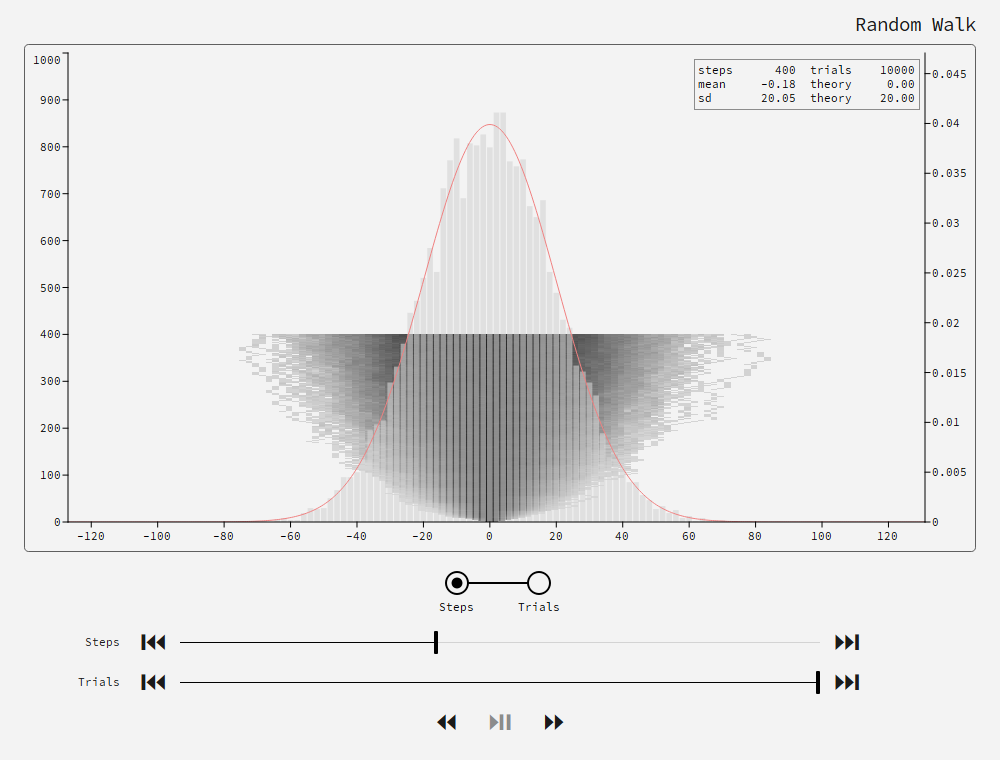
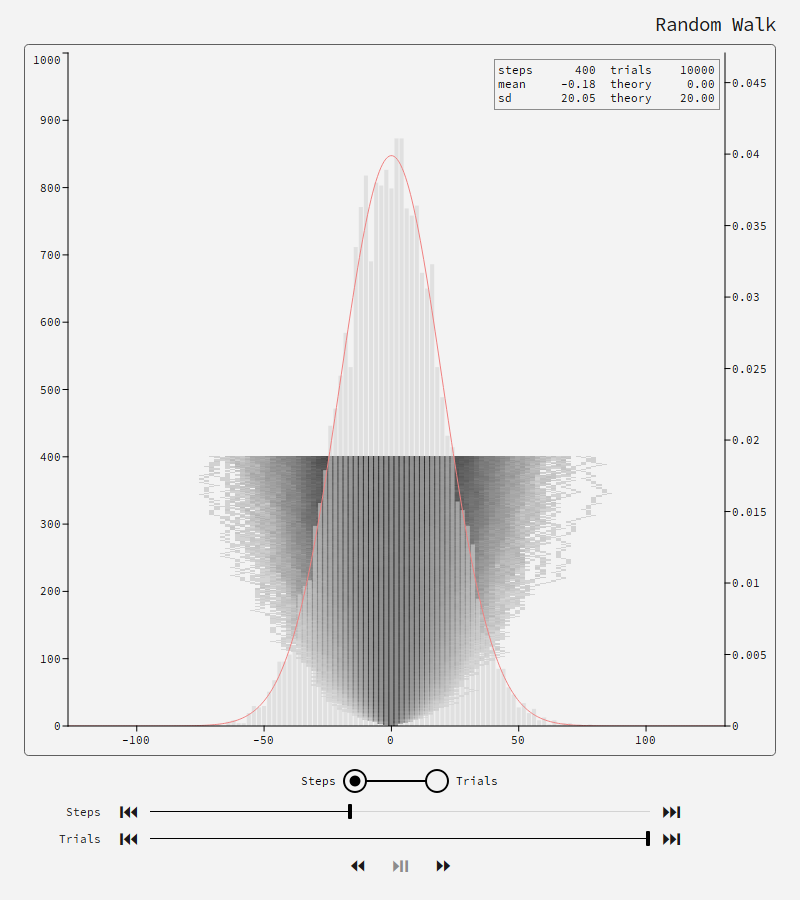
v0.3.8: Adjusted layout, new label option on custom control

diff --git a/src/random_walk/gui/position_selector.py b/src/random_walk/gui/position_selector.py
@@ -4,14 +4,20 @@
     Position 1   Position 2   Position 3
        Text         Text         Text
 
+With exactly two positions, `labels_beside` puts the labels either side instead, centred on
+the circles, so the control is only as tall as a circle (or a label):
+
+    Steps ( * )--------(   ) Trials
+
 Click a circle or its label to select that position; the dot slides there and
 `currentIndexChanged` is emitted. Exactly one position is selected at a time.
 
 Geometry, all in px:
   diameter    circle diameter (the control's "height"); the dot is half of it
-  spacing     edge-to-edge gap between neighbouring circles - a minimum: it grows so the widest
-              label fits, keeping every gap equal
-  label_gap   from the bottom of the circles to the top of the labels
+  spacing     edge-to-edge gap between neighbouring circles - with labels below, a minimum:
+              it grows so the widest label fits, keeping every gap equal
+  label_gap   from the circles to their labels: below them, or beside them with
+              `labels_beside`
 """
 
 from __future__ import annotations
@@ -57,15 +63,19 @@ class PositionSelector(QWidget):
         diameter: int = DEFAULT_DIAMETER,
         spacing: int = DEFAULT_SPACING,
         label_gap: int = DEFAULT_LABEL_GAP,
+        labels_beside: bool = False,
         parent: QWidget | None = None,
     ) -> None:
         super().__init__(parent)
         if not labels:
             raise ValueError("PositionSelector needs at least one position")
+        if labels_beside and len(labels) != 2:
+            raise ValueError("labels_beside needs exactly two positions")
         self._labels = list(labels)
         self._diameter = diameter
         self._spacing = spacing
         self._label_gap = label_gap
+        self._beside = labels_beside
         self._index = 0
         self._dot = 0.0  # dot position in index units; fractional while sliding
 
@@ -111,18 +121,31 @@ class PositionSelector(QWidget):
         return QSize(int(rect.width() + 1), int(rect.height() + 1))
 
     def _pitch(self) -> float:
+        if self._beside:  # no labels between the circles to make room for
+            return self._diameter + self._spacing
         widest = max(self._label_size(t).width() for t in self._labels)
         return circle_pitch(self._diameter, self._spacing, widest)
 
     def _side_margin(self, label: str) -> float:
         """Room from the widget edge to an end circle's centre: half the circle (plus the
-        outline) or half that circle's label, whichever is wider."""
-        return max(self._diameter / 2 + LINE_WIDTH, self._label_size(label).width() / 2)
+        outline) and, with labels beside, the label and its gap; with labels below, half the
+        circle or half its label, whichever is wider."""
+        circle = self._diameter / 2 + LINE_WIDTH
+        if self._beside:
+            return circle + self._label_gap + self._label_size(label).width()
+        return max(circle, self._label_size(label).width() / 2)
+
+    def _labels_height(self) -> float:
+        return max(self._label_size(t).height() for t in self._labels)
 
     def _centre(self, position: float) -> QPointF:
         """Centre of the circle at `position` (fractional while the dot slides)."""
         x = self._side_margin(self._labels[0]) + position * self._pitch()
-        return QPointF(x, LINE_WIDTH + self._diameter / 2)
+        if self._beside:  # circles and labels share one centre line
+            y = max(self._diameter + 2 * LINE_WIDTH, self._labels_height()) / 2
+        else:
+            y = LINE_WIDTH + self._diameter / 2
+        return QPointF(x, y)
 
     def _circle_rect(self, index: int) -> QRectF:
         c, r = self._centre(index), self._diameter / 2
@@ -130,9 +153,19 @@ class PositionSelector(QWidget):
 
     def _label_rect(self, index: int) -> QRectF:
         size = self._label_size(self._labels[index])
+        centre = self._centre(index)
+        if self._beside:  # left of the first circle, right of the second
+            reach = self._diameter / 2 + LINE_WIDTH + self._label_gap
+            x = centre.x() - reach - size.width() if index == 0 else centre.x() + reach
+            return QRectF(x, centre.y() - size.height() / 2, size.width(), size.height())
         top = LINE_WIDTH + self._diameter + self._label_gap
-        x = self._centre(index).x() - size.width() / 2
-        return QRectF(x, top, size.width(), size.height())
+        return QRectF(centre.x() - size.width() / 2, top, size.width(), size.height())
+
+    def _label_alignment(self, index: int) -> Qt.AlignmentFlag:
+        """How a label's lines line up: towards its circle when beside it, else centred."""
+        if not self._beside:
+            return Qt.AlignmentFlag.AlignHCenter
+        return Qt.AlignmentFlag.AlignRight if index == 0 else Qt.AlignmentFlag.AlignLeft
 
     def sizeHint(self) -> QSize:
         width = (
@@ -140,8 +173,10 @@ class PositionSelector(QWidget):
             + (self.count() - 1) * self._pitch()
             + self._side_margin(self._labels[-1])
         )
-        labels_height = max(self._label_size(t).height() for t in self._labels)
-        height = LINE_WIDTH + self._diameter + self._label_gap + labels_height
+        if self._beside:
+            height = max(self._diameter + 2 * LINE_WIDTH, self._labels_height())
+        else:
+            height = LINE_WIDTH + self._diameter + self._label_gap + self._labels_height()
         return QSize(int(width + 1), int(height + 1))
 
     def minimumSizeHint(self) -> QSize:
@@ -170,7 +205,7 @@ class PositionSelector(QWidget):
 
         painter.setPen(color)
         for i, text in enumerate(self._labels):
-            painter.drawText(self._label_rect(i), Qt.AlignmentFlag.AlignHCenter, text)
+            painter.drawText(self._label_rect(i), self._label_alignment(i), text)
 
     def mousePressEvent(self, event: QMouseEvent) -> None:
         pos = event.position()

diff --git a/src/random_walk/gui/main_window.py b/src/random_walk/gui/main_window.py
@@ -83,14 +83,14 @@ from random_walk.playback import Playback
 from random_walk.simulation import simulate_paths
 
 TITLE = "Random Walk"
-SLIDER_WIDTH = 640  # px; fixed, independent of the window width
+SLIDER_WIDTH = 500  # px; fixed, independent of the window width
 WINDOW_SPACING = 8  # px; the window layout's spacing between the title, drawing and controls
 # Vertical gaps below the drawing area, all exact (px). They share one value so the controls
 # are evenly spaced; each can still be tuned on its own.
-CONTROL_GAP = 12
+CONTROL_GAP = 6
 # +6: the drawing area's frame and the circles have no internal padding (buttons and sliders
 # do), so this gap needs a little more to look the same as the others. It includes the window
-# layout's spacing.
+# layout's spacing, so keep it at least WINDOW_SPACING.
 SELECTOR_TOP_GAP = CONTROL_GAP + 6  # drawing area -> position selector
 SELECTOR_BOTTOM_GAP = CONTROL_GAP  # position selector -> top slider row
 SLIDER_GAP = CONTROL_GAP  # between the two slider rows
@@ -151,7 +151,7 @@ EDITOR_PADDING = 16  # px added to the widest number's width in a slider's numbe
 EDITOR_GAP = 2  # px between the number box and the top of the slider
 SPI_GETKEYBOARDDELAY = 0x0016  # Windows SystemParametersInfo: the key repeat delay setting
 AXIS_POINT_SIZE = 8  # drawing area's axis labels
-INITIAL_SIZE = (1000, 760)
+INITIAL_SIZE = (800, 900)  # px; the drawing area takes whatever the controls leave
 # The sliders' look (SLIDER_HEIGHT, SLIDER_STYLE) is in gui/style.py, shared with the dialogs.
 
 
@@ -178,7 +178,7 @@ class MainWindow(QMainWindow):
         self.drawing_area.setMinimumSize(320, 200)
         layout.addWidget(self.drawing_area, stretch=1)
 
-        self.position_selector = PositionSelector(SELECTOR_LABELS)
+        self.position_selector = PositionSelector(SELECTOR_LABELS, labels_beside=True)
         self.slider_rows = tuple(SliderRow(*row) for row in SLIDER_ROWS)
         self.steps_slider = self.slider_rows[0].slider
         self.trials_slider = self.slider_rows[1].slider

diff --git a/src/random_walk/gui/style.py b/src/random_walk/gui/style.py
@@ -2,7 +2,7 @@
 
 from __future__ import annotations
 
-SLIDER_HEIGHT = 24  # px; room for the 23 px handle bar, which is clipped to the widget
+SLIDER_HEIGHT = 16  # px; room for the 15 px handle bar, which is clipped to the widget
 
 # Slider track: the part left of the handle (already played) and the part right of it.
 SLIDER_DONE_COLOR = "black"
@@ -10,10 +10,10 @@ SLIDER_TODO_COLOR = "#d3d3d3"  # light grey
 SLIDER_HANDLE_COLOR = "black"
 SLIDER_TRACK_WIDTH = 1  # px; thickness of the track line
 SLIDER_HANDLE_WIDTH = 4  # px
-SLIDER_HANDLE_OVERHANG = 11  # px the handle bar extends above and below the track
+SLIDER_HANDLE_OVERHANG = 7  # px the handle bar extends above and below the track
 # A style sheet replaces the native slider drawing entirely, so the handle is styled here too:
 # a thin vertical bar, like a playhead. Qt sizes it as the track plus its (negative) vertical
-# margins: 1 + 2 x 11 = 23 px tall, centred on the line.
+# margins: 1 + 2 x 7 = 15 px tall, centred on the line. Keep SLIDER_HEIGHT at least that.
 SLIDER_STYLE = f"""
 QSlider::groove:horizontal {{ height: {SLIDER_TRACK_WIDTH}px; background: {SLIDER_TODO_COLOR}; }}
 QSlider::sub-page:horizontal {{ background: {SLIDER_DONE_COLOR}; }}

diff --git a/src/random_walk/gui/symbols.py b/src/random_walk/gui/symbols.py
@@ -31,7 +31,7 @@ PAUSE = chr(0x23F8)  # DOUBLE VERTICAL BAR
 PLAY_PAUSE = chr(0x23EF)  # BLACK RIGHT-POINTING TRIANGLE WITH DOUBLE VERTICAL BAR
 
 FONT_FILE = "NotoSansSymbols2-Media.ttf"
-POINT_SIZE = 22
+POINT_SIZE = 16  # the buttons size themselves to it, so it also sets the slider rows' height
 
 _family: str | None = None
 

diff --git a/src/random_walk/__init__.py b/src/random_walk/__init__.py
@@ -1,3 +1,3 @@
 """Interactive 1D random walk explorer."""
 
-__version__ = "0.3.7"
+__version__ = "0.3.8"

diff --git a/CLAUDE.md b/CLAUDE.md
@@ -31,12 +31,20 @@ version (v0.3.x).
 
 `random-walk` / `py -m random_walk` -> `cli.main()` -> `gui.app.run()` -> `MainWindow`.
 
-- **Window** (`gui/main_window.py`): title top right; the drawing area (`WalkView`) takes the
-  spare space; below it, in one zero-spacing layout with exact gaps (`CONTROL_GAP` 12,
-  `SELECTOR_TOP_GAP` 18 including `WINDOW_SPACING` 8), the Steps / Trials selector
-  (`PositionSelector`), two `SliderRow`s ("Steps", "Trials": label, jump-to-start button,
-  640 px slider, jump-to-end button, invisible mirror of the label to keep it centred) and
-  the player controls (step back, Play/Pause, step forward).
+- **Window** (`gui/main_window.py`, opens at `INITIAL_SIZE` 800 x 900): title top right;
+  the drawing area (`WalkView`) takes the spare space; below it, in one zero-spacing layout
+  with exact gaps (`CONTROL_GAP` 6, `SELECTOR_TOP_GAP` = CONTROL_GAP + 6, which includes
+  `WINDOW_SPACING` 8), the Steps / Trials selector (`PositionSelector` with
+  `labels_beside=True`: "Steps (o)---(o) Trials" on one line, 27 px tall instead of 46), two
+  `SliderRow`s ("Steps", "Trials": label, jump-to-start button, 500 px slider, jump-to-end
+  button, invisible mirror of the label to keep it centred) and the player controls (step
+  back, Play/Pause, step forward). The user tuned these sizes by hand in v0.3.8 (from 640 px
+  sliders, gaps of 12, 22 pt symbols and a 1000 x 760 window); the minimum width is now
+  ~730 px.
+- **Selector** (`gui/position_selector.py`): labels below the circles by default, or with
+  exactly two positions `labels_beside` (v0.3.8) puts them either side, vertically centred,
+  the circles just `spacing` apart; clicking a label or circle selects it. Raises ValueError
+  for `labels_beside` with any other count.
 - **Modes** (`set_mode()`; each with its own `Playback`, one `QTimer` while playing):
   - Steps (`STEPS_DRAWING`, `show_step()`): the Steps slider (0-1000, starts at 1000) is the
     playhead; Play runs to step 1000 at 30 steps/s, from 0 again if at the end. The Trials
@@ -92,8 +100,11 @@ version (v0.3.x).
   `DENSITY_GAMMA` 0.3, the user's choices), drawn as a stretched image. Walk drawing
   (`Drawing.walks`) is still there, though no mode uses it.
 - **Look**: Source Code Pro everywhere (`gui/ui_fonts.py`), button symbols from a bundled Noto
-  Sans Symbols 2 subset (`gui/symbols.py`). Sliders: 1 px track, black left of the handle,
-  light grey right, 4 x 23 px black bar handle (`gui/style.py`, shared by the window and the
+  Sans Symbols 2 subset (`gui/symbols.py`, `POINT_SIZE` 16; the buttons size themselves to
+  it, so it sets the slider rows' height). Sliders: 16 px tall (`SLIDER_HEIGHT`), 1 px track,
+  black left of the handle, light grey right, 4 x 15 px black bar handle (track + 2 x
+  `SLIDER_HANDLE_OVERHANG` 7; keep SLIDER_HEIGHT at least that or it's clipped)
+  (`gui/style.py`, shared by the window and the
   dialogs; a style sheet replaces native drawing, so all slider styling goes in
   `SLIDER_STYLE`). Play/Pause shows the combined symbol, grey while paused, black on hover
   and while playing (`HoverColorButton`).
